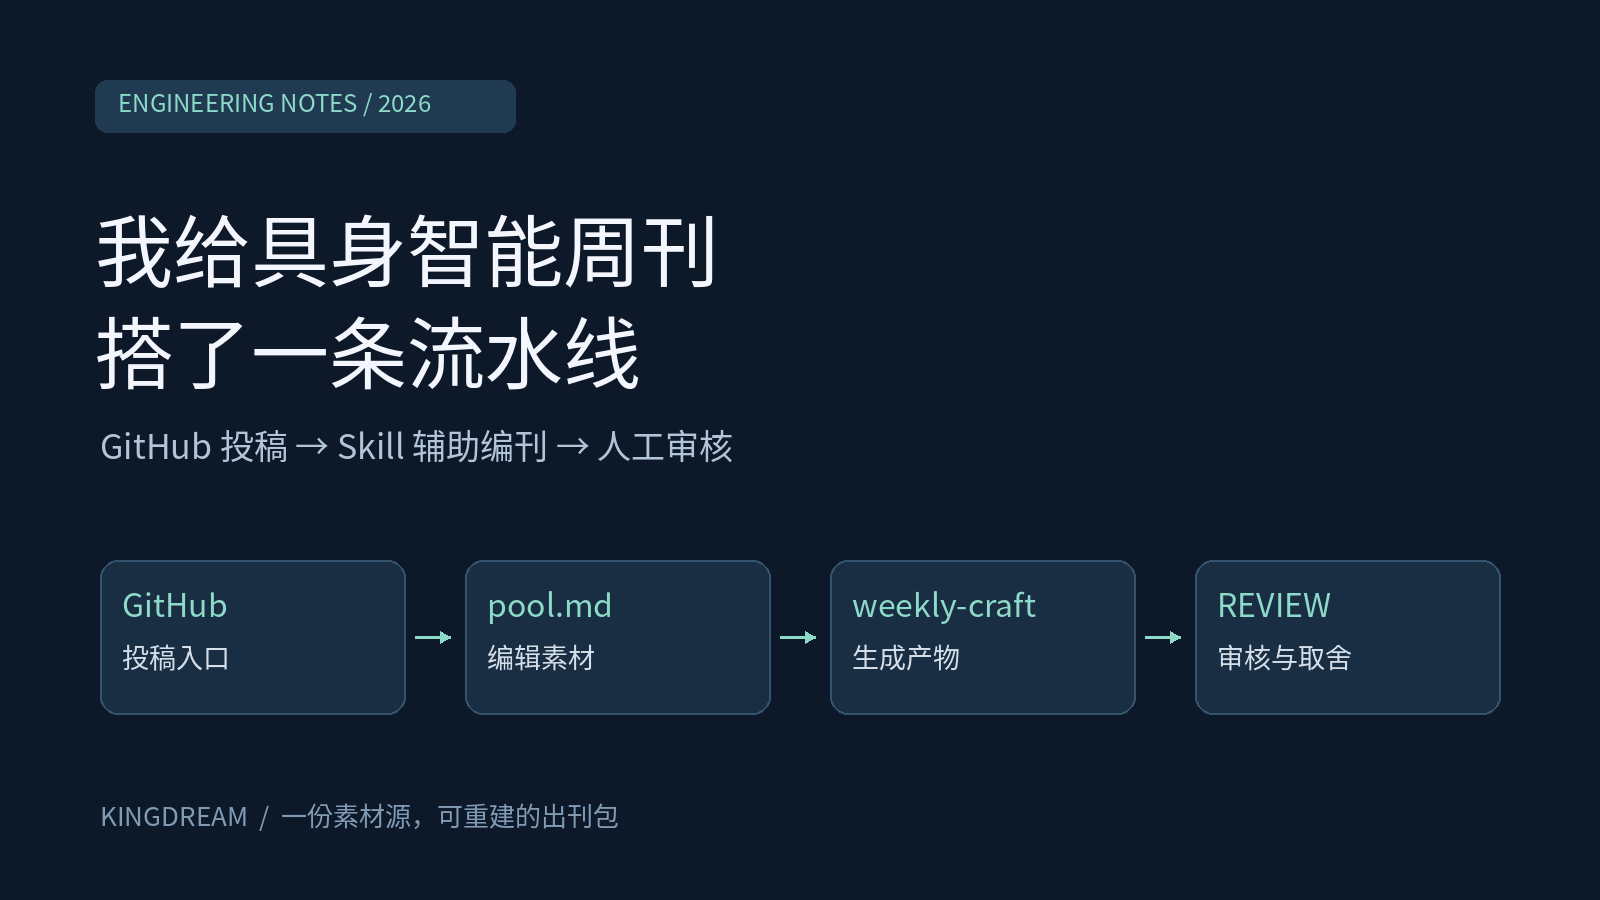
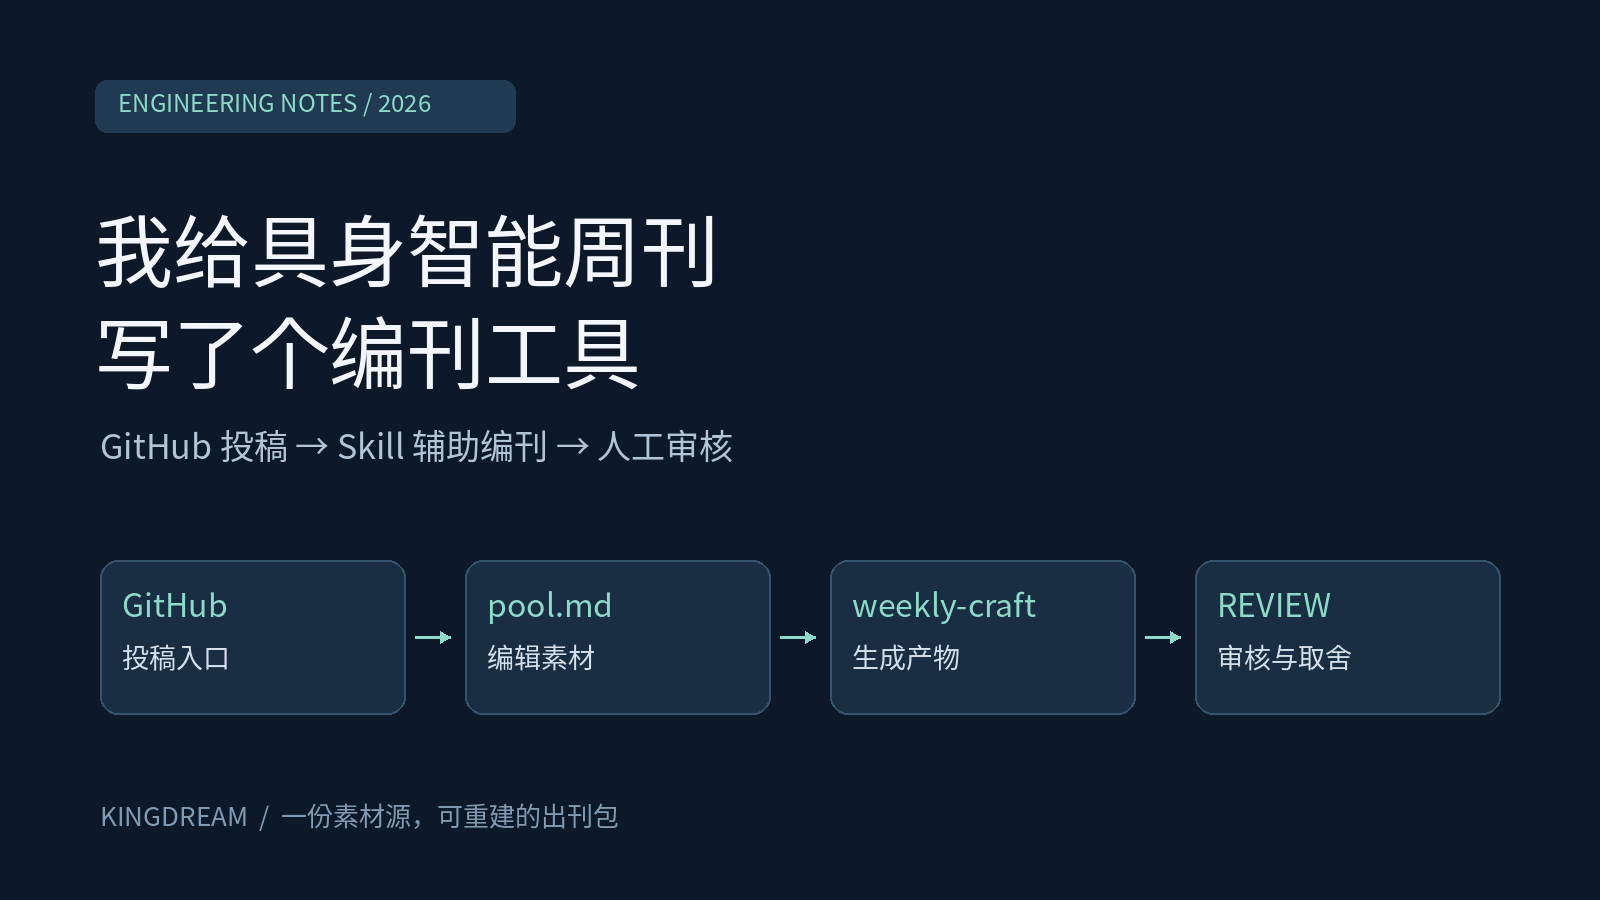
docs: simplify weekly editorial tool article title

Changed region(s): [[0.1562, 0.3422, 0.4062, 0.4356], [0.0625, 0.3422, 0.125, 0.4356]]

diff --git a/source/_posts/weekly-automation-skill.md b/source/_posts/weekly-automation-skill.md
@@ -1,5 +1,5 @@
 ---
-title: '我给具身智能周刊搭了一条流水线：从 GitHub 投稿到 Skill 辅助编刊'
+title: '我给具身智能周刊写了个编刊工具'
 tags:
   - 具身智能
   - 自动化
@@ -14,7 +14,7 @@ keywords: 具身智能周刊, weekly-craft, Agent Skill, GitHub Actions, Python,
 cover: /img/posts/weekly-automation-skill/cover.png
 abbrlink: 75619
 date: 2026-11-15 17:30:43
-updated: 2026-11-15 17:30:43
+updated: 2026-11-15 17:43:15
 ---
 
 一期具身智能周刊发布出来，读者看到的是几组标题、摘要和链接。但在它变成网页之前，还要完成一串不太显眼的工作：收集投稿、检查重复、核对来源、归类、改摘要、统一格式，再更新网站入口。
